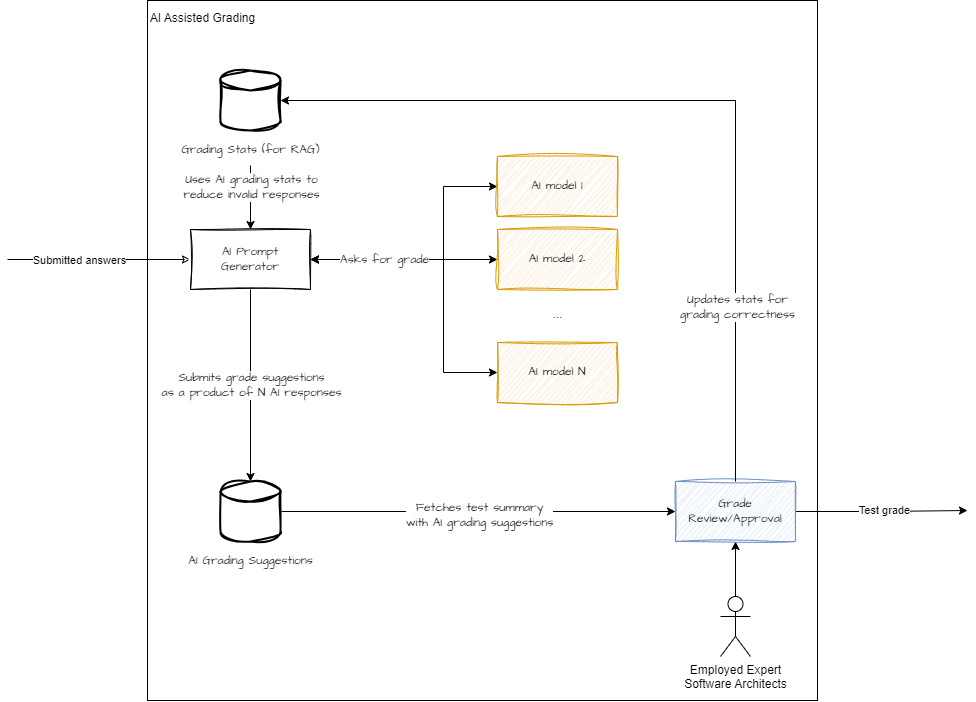
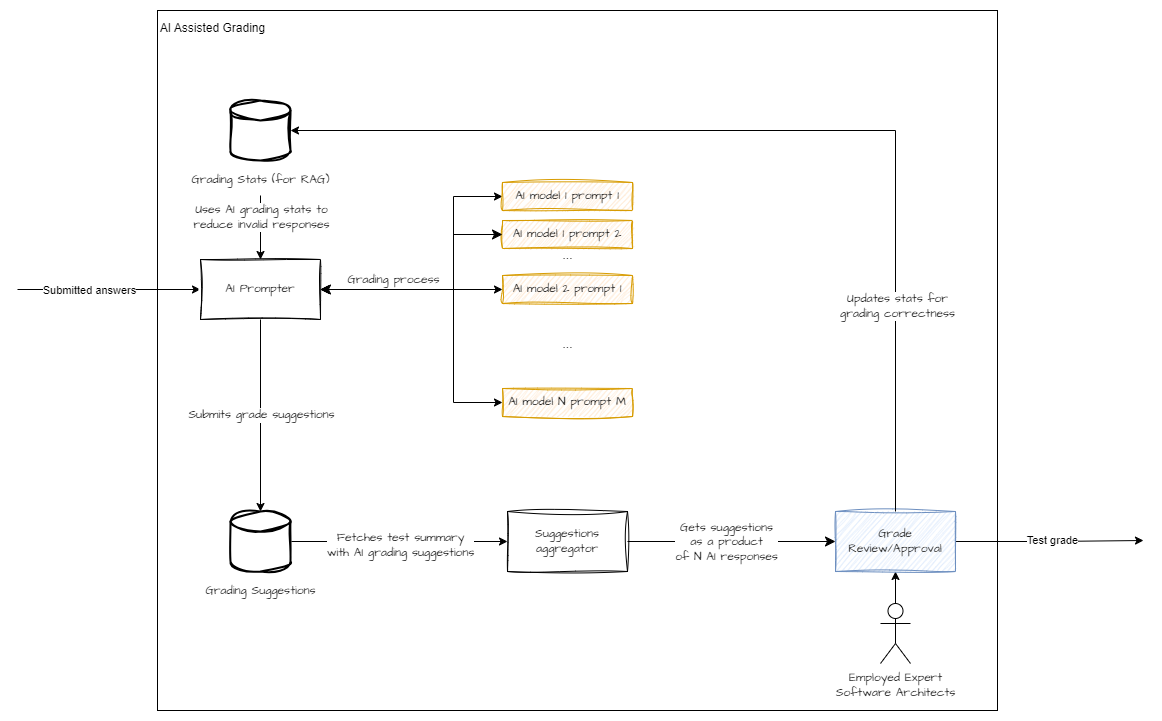
Update readme.md (#16)
* Update readme.md

* Update diagrams, improve ADR links

* Fix tests

* Align to new directory tree

* Improve docs

diff --git a/readme.md b/readme.md
@@ -2,11 +2,26 @@
 
 ## 👥 Team
 
-We are **Knowledge Out of Range Exception**, a group of passionate professionals from Endava Poland. Our team consists of the following members:
+[![Typing SVG](https://readme-typing-svg.demolab.com?font=Segoe+UI&size=14&pause=1000&color=F7F7F7&width=320&height=24&lines=We+are+Knowledge+Out+Of+Range+Exception)](https://git.io/typing-svg) 
+</br>
+A group of passionate professionals from Endava Poland. Our team consists of the following members:
 
-- Paweł Wawrzynek
-- Arkadiusz Jastrzębski
-- Krzysztof Szczęsny
+</br>
+
+<div style="display:flex; gap: 40px;">
+   <div style="display: flex; flex-flow: column; align-items: center;">
+      <img src="./resources/avatars/PW.png" style="border-radius: 50%;" width="200" height="200"/>
+      <h3>Paweł Wawrzynek</h3>
+   </div>
+   <div style="display: flex; flex-flow: column; align-items: center;">
+      <img src="./resources/avatars/AJ.png" style="border-radius: 50%;" width="200" height="200"/>
+      <h3>Arkadiusz Jastrzębski</h3>
+   </div>
+   <div style="display: flex; flex-flow: column; align-items: center;">
+      <img src="./resources/avatars/KS.png" style="border-radius: 50%;" width="200" height="200"/>
+      <h3>Krzysztof Szczęsny</h3>
+   </div>
+</div>
 
 ## 🎥 Video Presentation
 
@@ -19,7 +34,7 @@ We are **Knowledge Out of Range Exception**, a group of passionate professionals
 - [📐 Architecture and Design](#-architecture-and-design)
 - [✍ Architecture Decision Records](#-architecture-decision-records)
 
-## 🤔 Problem Description
+## 🤔 Problem Description 
 
 Certifiable, Inc. is facing a significant increase in demand for software architecture certifications due to new regulations, as well as expansion to new markets. The company currently employs 300 expert software architects, with 5 designated experts authorized to modify certification tests. They handle around 200 candidates per week in the U.S., a number expected to grow 5-10 times with overseas expansion. The certification exam costs $800, a price fixed by the Software Architecture Licensing Board (SALB).
 
@@ -41,7 +56,7 @@ This feasibility analysis evaluates the potential benefits, challenges, and over
 
 **Demand Growth:**
 
-![Demand growth study](Demand-growth-study.png "Demand growth study")
+![Demand growth study](resources/Demand-growth-study.png "Demand growth study")
 
 1. Expected demand for candidates without Generative AI is projected to increase significantly, reaching ~2 000 application per week by 2029.
 2. Based on throughput analysis, to meet this demand without generative AI, the company must either increase the contractors' headcount by 200%, or employ them full-time and still extend from 300 to 500.
@@ -121,10 +136,19 @@ Test 2 is designed to assess candidates ability to create an architectural solut
 
 The AI-Assisted Grading is designed to automate and enhance the grading process by leveraging multiple AI models. This system reduces expert workload.
 
-- Candidate answers are fed into the AI Prompt Generator.
-- Prompt Generator formulates queries and requests grading suggestions from multiple AI Models, each with multiple different prompts. Responses are evaluated independently.
+- Candidate answers are fed into the AI Prompter.
+- AI Prompter formulates queries and requests grading suggestions from multiple AI Models, each with multiple different prompts. Responses are evaluated independently.
 - Results are aggregated to generate a final grading suggestion
 - Expert reviews and adjusts AI generated grades if necessary
+- Suggestions aggregator is responsible for aggregating stored grades
+
+#### Grading Process
+
+![Grading Process](./resources/Grading-process.png "Grading Process")
+
+- AI Prompter send `N` prompt to `M` AI Models
+- Each model asynchronously send grade suggestion to AI Prompter
+- AI Prompter is responsible for storing data in Grading Suggestion DB
 
 ## ✍ Architecture Decision Records
 
